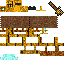
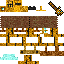
Fixes to minigun skin

Changed region(s): [[0.2812, 0.8438, 0.625, 1.0], [0.6875, 0.4375, 1.0, 0.5938]]

diff --git a/src/main/java/com/flansmod/client/model/mw/ModelMinigun.java b/src/main/java/com/flansmod/client/model/mw/ModelMinigun.java
@@ -198,8 +198,8 @@ public class ModelMinigun extends ModelGun
 		
 		// Custom extra minigun spinner on the side for the Steampunk skin
 		spinnerModel = new ModelRendererTurbo[8];
-		spinnerModel[0] = new ModelRendererTurbo(this, 0, 28, textureX, textureY); // Box 6
-		spinnerModel[1] = new ModelRendererTurbo(this, 20, 28, textureX, textureY); // Box 7
+		spinnerModel[0] = new ModelRendererTurbo(this, 18, 55, textureX, textureY); // Box 6
+		spinnerModel[1] = new ModelRendererTurbo(this, 44, 28, textureX, textureY); // Box 7
 		spinnerModel[2] = new ModelRendererTurbo(this, 34, 28, textureX, textureY); // Box 8
 		spinnerModel[3] = new ModelRendererTurbo(this, 20, 28, textureX, textureY); // Box 9
 		spinnerModel[4] = new ModelRendererTurbo(this, 14, 28, textureX, textureY); // Box 10
